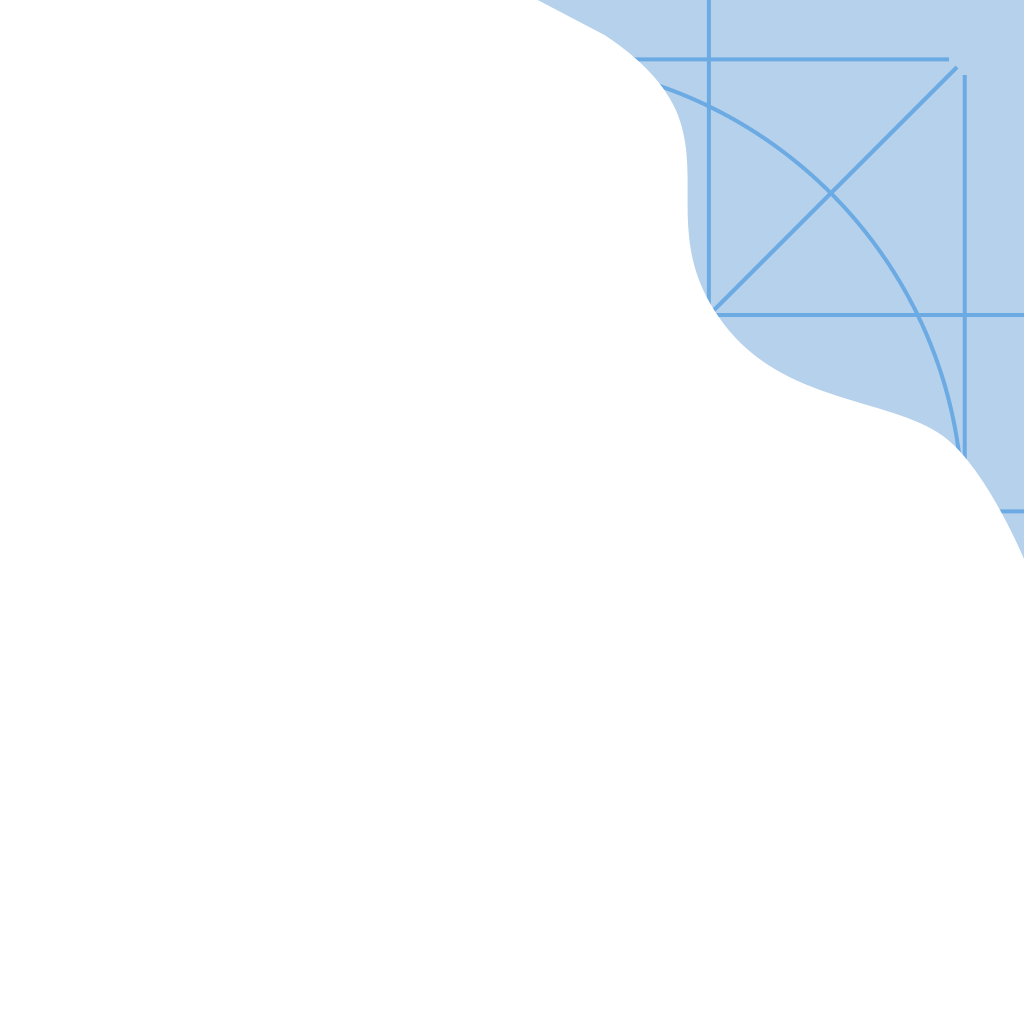
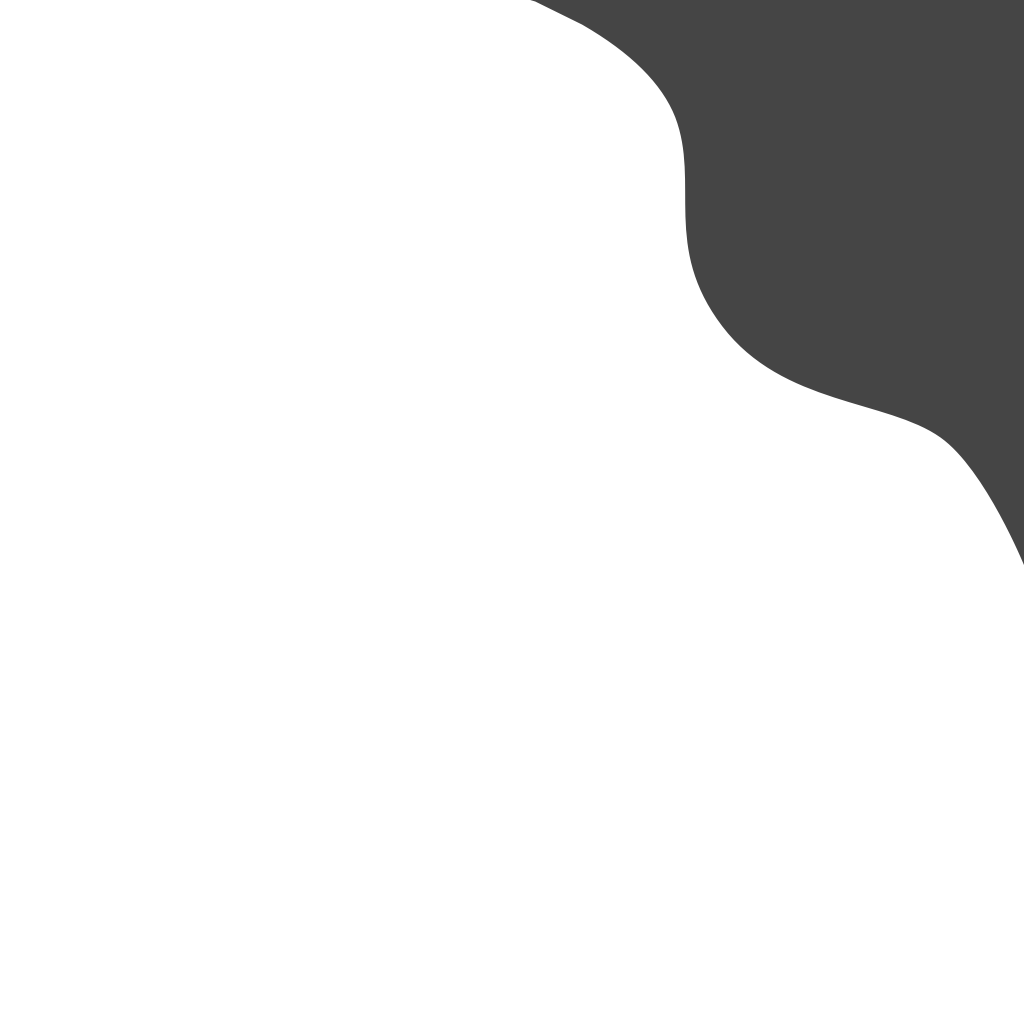
Adds settings to customize background color

Changed region(s): [[0.5312, 0.0, 1.0, 0.5625]]

diff --git a/render-ios-app-icon-badge/src/render-beta-badge.ts b/render-ios-app-icon-badge/src/render-beta-badge.ts
@@ -1,4 +1,3 @@
-import tmp from "tmp"
 import path from "path"
 import {
   recolorPixels,
@@ -6,40 +5,66 @@ import {
   getPixelColor,
   getImageSize
 } from "./utils/imagemagick"
-import hexToRgb from "./utils/hex-to-rgb"
+import { hexToRgb } from "./utils/hex"
+import makeTmpFile from "./utils/make-tmp-file"
 
-export default async (filePaths: string[], hexCurlColor?: string) => {
-  return await Promise.all(filePaths.map(async filePath => {
-    return await renderBetaBadge(filePath, hexCurlColor)
+export default async (options: {
+  filePaths: string[],
+  primaryBackgroundColor: string,
+  secondaryBackgroundColor: string,
+  curlColor?: string
+}) => {
+  return await Promise.all(options.filePaths.map(async filePath => {
+    return await renderBetaBadge({
+      filePath,
+      primaryBackgroundColor: options.primaryBackgroundColor,
+      secondaryBackgroundColor: options.secondaryBackgroundColor,
+      curlColor: options.curlColor
+    })
   }))
 }
 
-async function renderBetaBadge(filePath: string, hexCurlColor?: string) {
-  const imageSize = await getImageSize(filePath)
+async function renderBetaBadge(options: {
+  filePath: string,
+  primaryBackgroundColor: string,
+  secondaryBackgroundColor: string,
+  curlColor?: string
+}) {
+  const primaryBackgroundColor = hexToRgb(options.primaryBackgroundColor)
+  const secondaryBackgroundColor = hexToRgb(options.secondaryBackgroundColor)
+  const curlColor = await getCurlColor(options.filePath, options.curlColor)
   const betaResourcesDir = path.join(__dirname, "../resources/beta")
   const backgroundFilePath = path.join(betaResourcesDir, "background.png")
+  const gridFilePath = path.join(betaResourcesDir, "grid.png")
   const curlFilePath = path.join(betaResourcesDir, "curl.png")
   const innerShadowFilePath = path.join(betaResourcesDir, "inner_shadow.png")
   const outerShadowFilePath = path.join(betaResourcesDir, "outer_shadow.png")
-  let curlColor: { r: number, g: number, b: number }
-  if (hexCurlColor && hexCurlColor.length > 0) {
-    curlColor = hexToRgb(hexCurlColor)
-  } else {
-    curlColor = await getPixelColor(filePath, { x: imageSize.width - 1, y: 0 })
-  }
-  const tmpRecoloredCurlImage: {
-    name: string,
-    removeCallback: () => void
-  } = tmp.fileSync()
-  await recolorPixels(curlFilePath, tmpRecoloredCurlImage.name, curlColor)
+  const tmpRecoloredBackgroundImage = makeTmpFile()
+  const tmpRecoloredGridImage = makeTmpFile()
+  const tmpRecoloredCurlImage = makeTmpFile()
+  await recolorPixels(backgroundFilePath, tmpRecoloredBackgroundImage.filePath, primaryBackgroundColor)
+  await recolorPixels(gridFilePath, tmpRecoloredGridImage.filePath, secondaryBackgroundColor)
+  await recolorPixels(curlFilePath, tmpRecoloredCurlImage.filePath, curlColor)
   const layers = [
-    filePath,
-    backgroundFilePath,
-    tmpRecoloredCurlImage.name,
+    options.filePath,
+    tmpRecoloredBackgroundImage.filePath,
+    tmpRecoloredGridImage.filePath,
+    tmpRecoloredCurlImage.filePath,
     outerShadowFilePath,
     innerShadowFilePath
   ]
-  const targetSize = await getImageSize(filePath)
-  await renderLayers(layers, filePath, targetSize)
-  tmpRecoloredCurlImage.removeCallback()
+  const targetSize = await getImageSize(options.filePath)
+  await renderLayers(layers, options.filePath, targetSize)
+  tmpRecoloredBackgroundImage.cleanUp()
+  tmpRecoloredGridImage.cleanUp()
+  tmpRecoloredCurlImage.cleanUp()
+}
+
+async function getCurlColor(filePath: string, tintColor?: string) {
+  const imageSize = await getImageSize(filePath)
+  if (tintColor && tintColor.length > 0) {
+    return hexToRgb(tintColor)
+  } else {
+    return await getPixelColor(filePath, { x: imageSize.width - 1, y: 0 })
+  }
 }

diff --git a/render-ios-app-icon-badge/src/index.ts b/render-ios-app-icon-badge/src/index.ts
@@ -15,9 +15,16 @@ program
   .command("render")
   .description("Render the iOS app icon badge")
   .argument("<search-dir>", "path to the directory")
-  .option("-s, --style <style>", "style of the badge", "beta")
-  .option("--curl-color [curl-color]", "hex color for the curl. Only used by the \"beta\" style badge")
-  .action(async (searchDir: string, options: { style: string, curlColor?: string }) => {
+  .option("--style <style>", "style of the badge", "beta")
+  .option("--primary-background-color <hex>", "the primary background color", "#b6d1eb")
+  .option("--secondary-background-color <hex>", "the secondary background color. Used for the grid lines when adding the beta badge", "#6baae3")
+  .option("--curl-color [hex]", "hex color for the curl. Only used by the \"beta\" style badge")
+  .action(async (searchDir: string, options: {
+    style: string,
+    primaryBackgroundColor: string,
+    secondaryBackgroundColor: string,
+    curlColor?: string
+  }) => {
     const absolutePath = path.resolve(searchDir)
     if (!fs.existsSync(absolutePath)) {
       console.error(`The directory ${absolutePath} does not exist.`)
@@ -34,7 +41,12 @@ program
     }
     const style = options.style || "beta"
     if (style === "beta") {
-      await renderBetaBadge(appIconFilePaths, options.curlColor)
+      await renderBetaBadge({
+        filePaths: appIconFilePaths,
+        primaryBackgroundColor: options.primaryBackgroundColor,
+        secondaryBackgroundColor: options.secondaryBackgroundColor,
+        curlColor: options.curlColor
+      })
     } else {
       console.error('Invalid style. Only "beta" is supported.')
       process.exit(1)

diff --git a/render-ios-app-icon-badge/src/utils/hex.ts b/render-ios-app-icon-badge/src/utils/hex.ts
@@ -1,0 +1,11 @@
+export function hexToRgb(hex: string): { r: number, g: number, b: number } {
+  const comps = /^#?([a-f\d]{2})([a-f\d]{2})([a-f\d]{2})$/i.exec(hex)
+  if (!comps || comps.length < 4) {
+    throw new Error(`${hex} is not a valid hex color. It may optionally begin with # and must be exactly six characters.`)
+  }
+  return {
+    r: parseInt(comps[1], 16),
+    g: parseInt(comps[2], 16),
+    b: parseInt(comps[3], 16)
+  }
+}

diff --git a/render-ios-app-icon-badge/src/utils/make-tmp-file.ts b/render-ios-app-icon-badge/src/utils/make-tmp-file.ts
@@ -1,0 +1,6 @@
+import tmp from "tmp"
+
+export default function () {
+  const file: { name: string, removeCallback: () => void } = tmp.fileSync()
+  return { filePath: file.name, cleanUp: file.removeCallback }
+}
